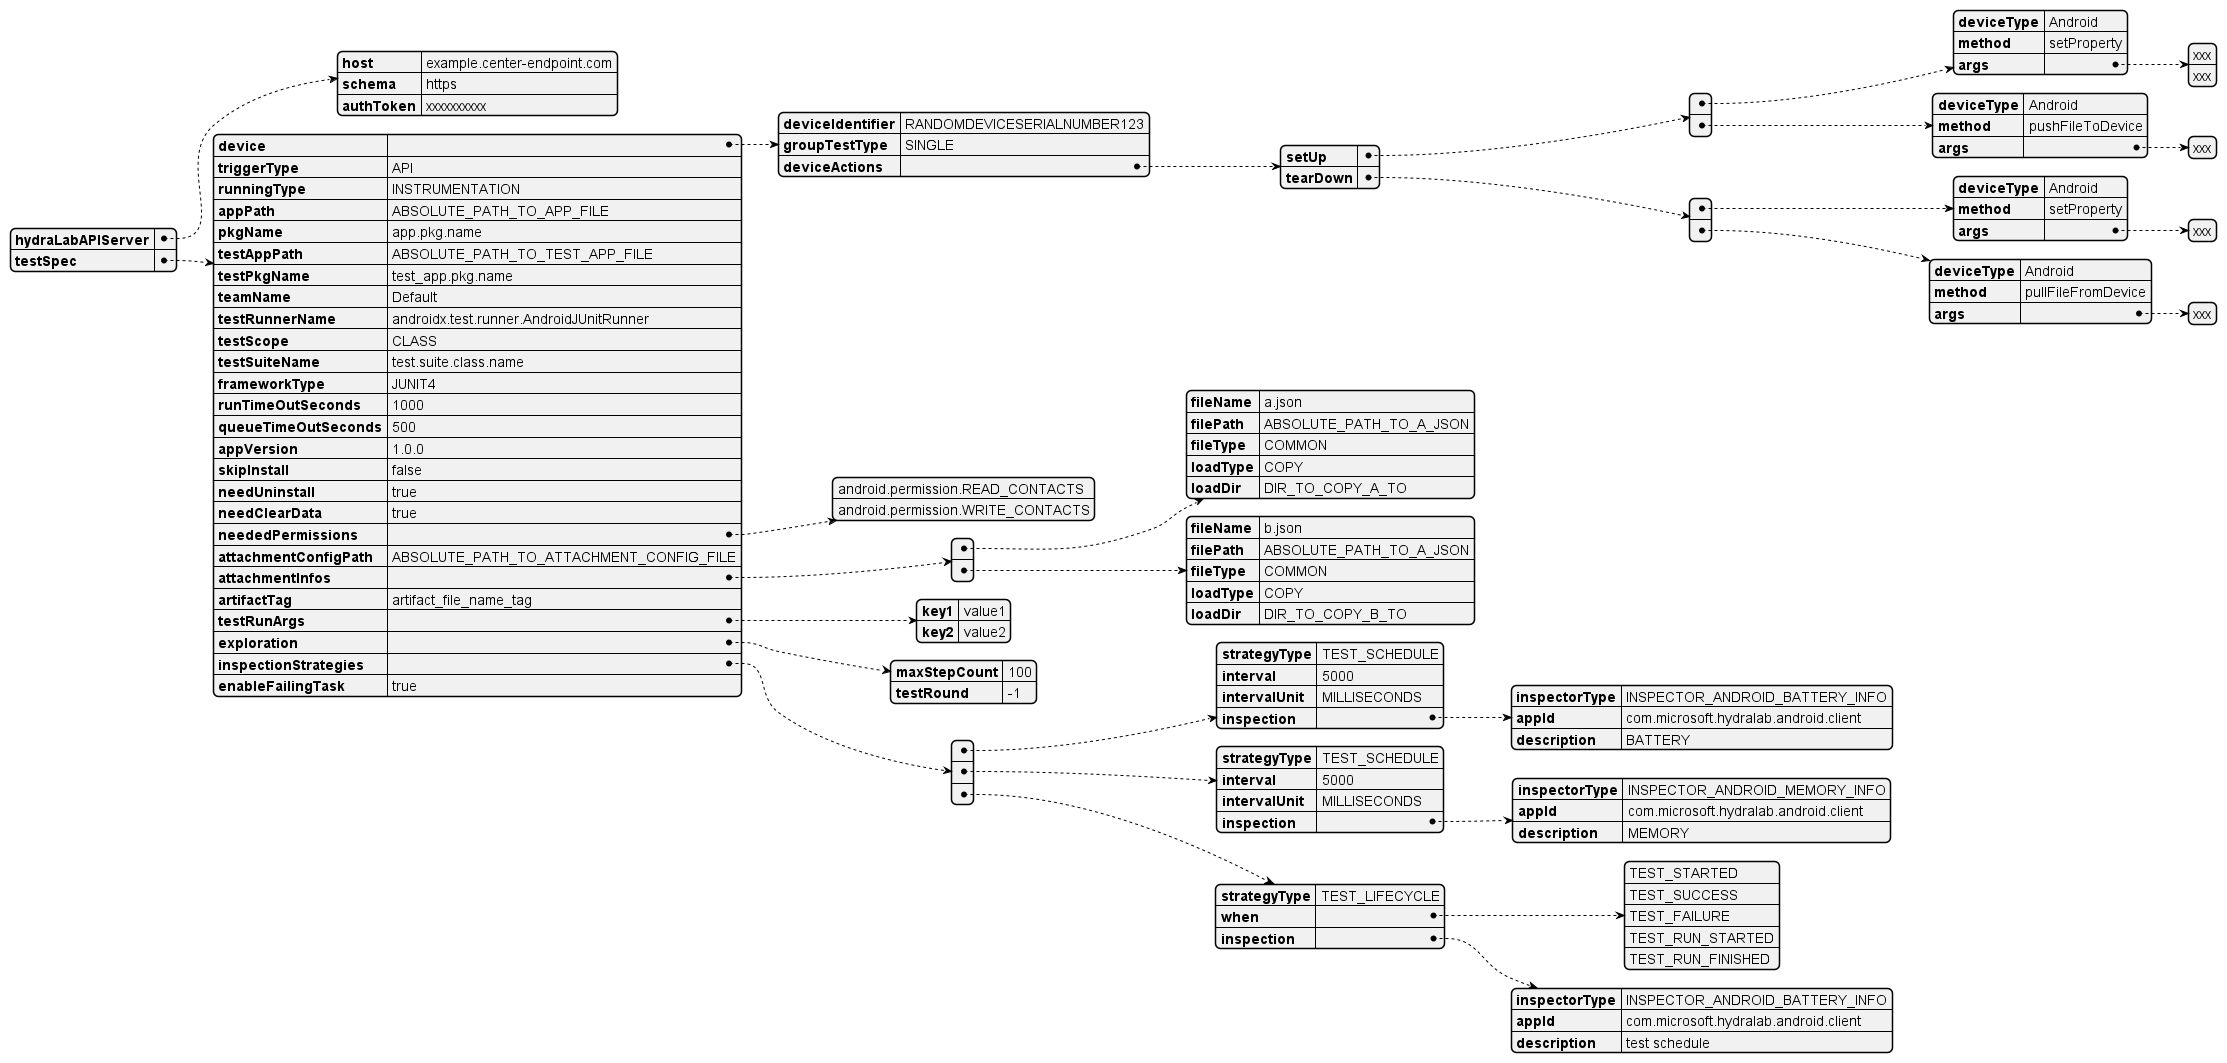
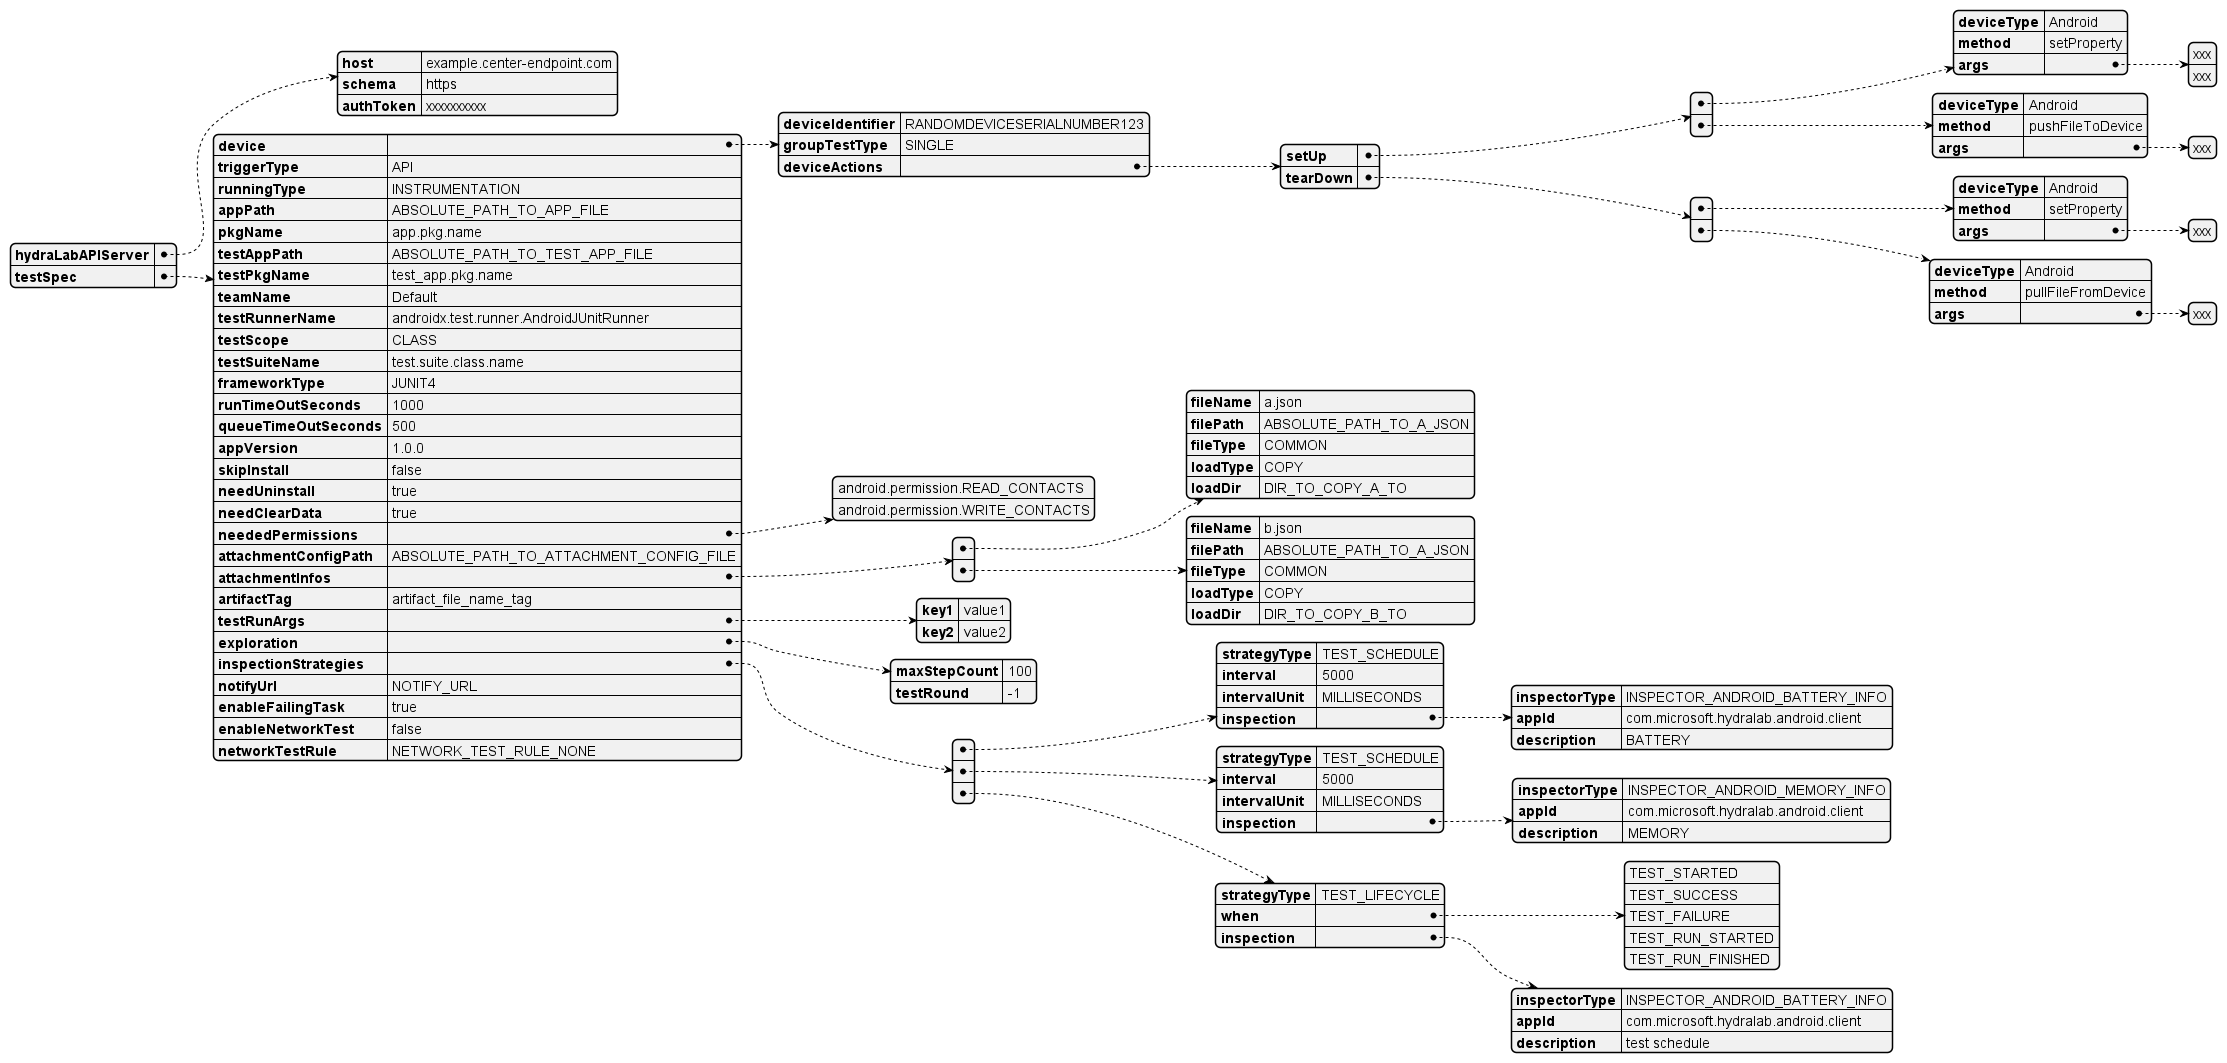
Add enableNetworkTest and networkTestRule params (#520)
* Add enableNetworkTest and networkTestRule params

diff --git a/gradle_plugin/src/main/groovy/com/microsoft/hydralab/config/TestConfig.java b/gradle_plugin/src/main/groovy/com/microsoft/hydralab/config/TestConfig.java
@@ -50,7 +50,10 @@ public class TestConfig {
     public int testRound = -1;
     public List<InspectionStrategy> inspectionStrategies = new ArrayList<>();
     public String inspectionStrategiesStr = "";
+    public String notifyUrl = "";
     public boolean enableFailingTask = true;
+    public boolean enableNetworkTest = false;
+    public String networkTestRule = "";
 
     public void constructField(HashMap<String, Object> map) {
         Object queueTimeOutSeconds = map.get("queueTimeOutSeconds");
@@ -106,6 +109,9 @@ public class TestConfig {
                 "\tmaxStepCount=" + maxStepCount + "\n" +
                 "\ttestRound=" + testRound + "\n" +
                 "\tinspectionStrategiesStr=" + inspectionStrategiesStr + "\n" +
-                "\tenableFailingTask=" + enableFailingTask;
+                "\tnotifyUrl=" + notifyUrl + "\n" +
+                "\tenableFailingTask=" + enableFailingTask + "\n" +
+                "\tenableNetworkTest=" + enableNetworkTest +"\n" +
+                "\tnetworkTestRule=" + networkTestRule;
     }
 }

diff --git a/gradle_plugin/src/main/groovy/com/microsoft/hydralab/utils/HydraLabAPIClient.java b/gradle_plugin/src/main/groovy/com/microsoft/hydralab/utils/HydraLabAPIClient.java
@@ -233,6 +233,9 @@ public class HydraLabAPIClient {
         jsonElement.addProperty("needClearData", testConfig.needClearData);
         jsonElement.addProperty("testRunnerName", testConfig.testRunnerName);
         jsonElement.addProperty("testScope", testConfig.testScope);
+        jsonElement.addProperty("enableNetworkTest", testConfig.enableNetworkTest);
+        jsonElement.addProperty("networkTestRule", testConfig.networkTestRule);
+        jsonElement.addProperty("notifyUrl", testConfig.notifyUrl);
 
         try {
             if (testConfig.neededPermissions.size() > 0) {

diff --git a/gradle_plugin/src/main/groovy/com/microsoft/hydralab/entity/performance/PerformanceInspector.java b/gradle_plugin/src/main/groovy/com/microsoft/hydralab/entity/performance/PerformanceInspector.java
@@ -12,7 +12,10 @@ public interface PerformanceInspector {
         INSPECTOR_ANDROID_MEMORY_INFO,
         INSPECTOR_ANDROID_BATTERY_INFO,
         INSPECTOR_WIN_MEMORY,
-        INSPECTOR_WIN_BATTERY
+        INSPECTOR_WIN_BATTERY,
+        INSPECTOR_IOS_MEMORY,
+        INSPECTOR_IOS_ENERGY,
+        INSPECTOR_EVENT_TIME
     }
 
 }

diff --git a/gradle_plugin/src/main/groovy/com/microsoft/hydralab/config/HydraLabAPIConfig.java b/gradle_plugin/src/main/groovy/com/microsoft/hydralab/config/HydraLabAPIConfig.java
@@ -2,7 +2,6 @@
 // Licensed under the MIT License.
 package com.microsoft.hydralab.config;
 
-import java.util.HashMap;
 import java.util.Locale;
 
 public class HydraLabAPIConfig {
